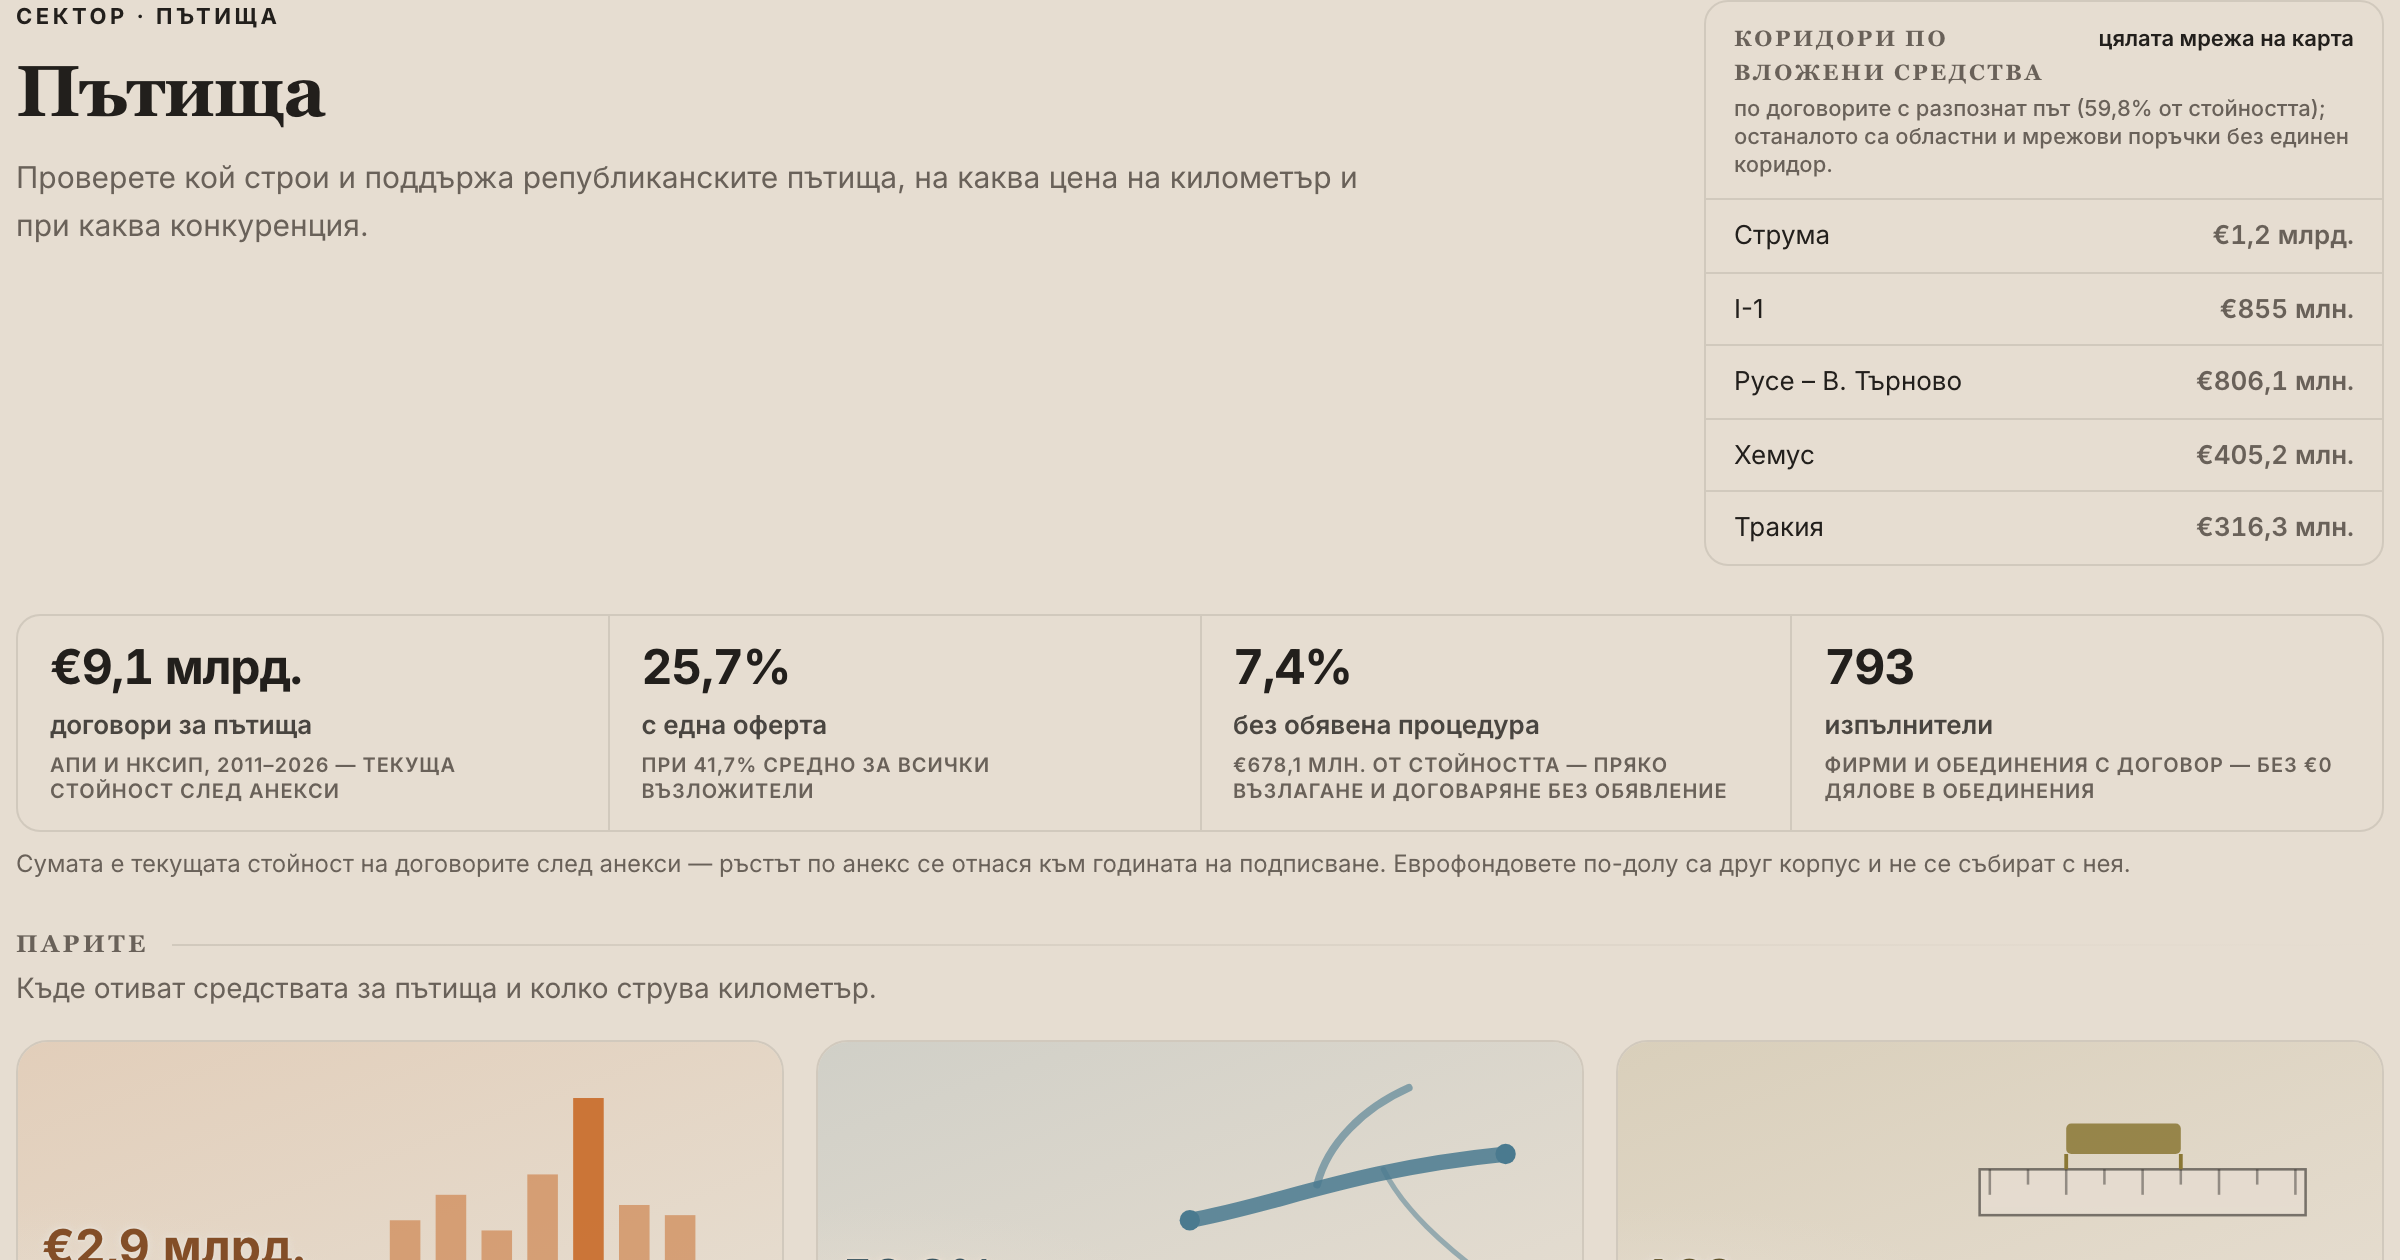
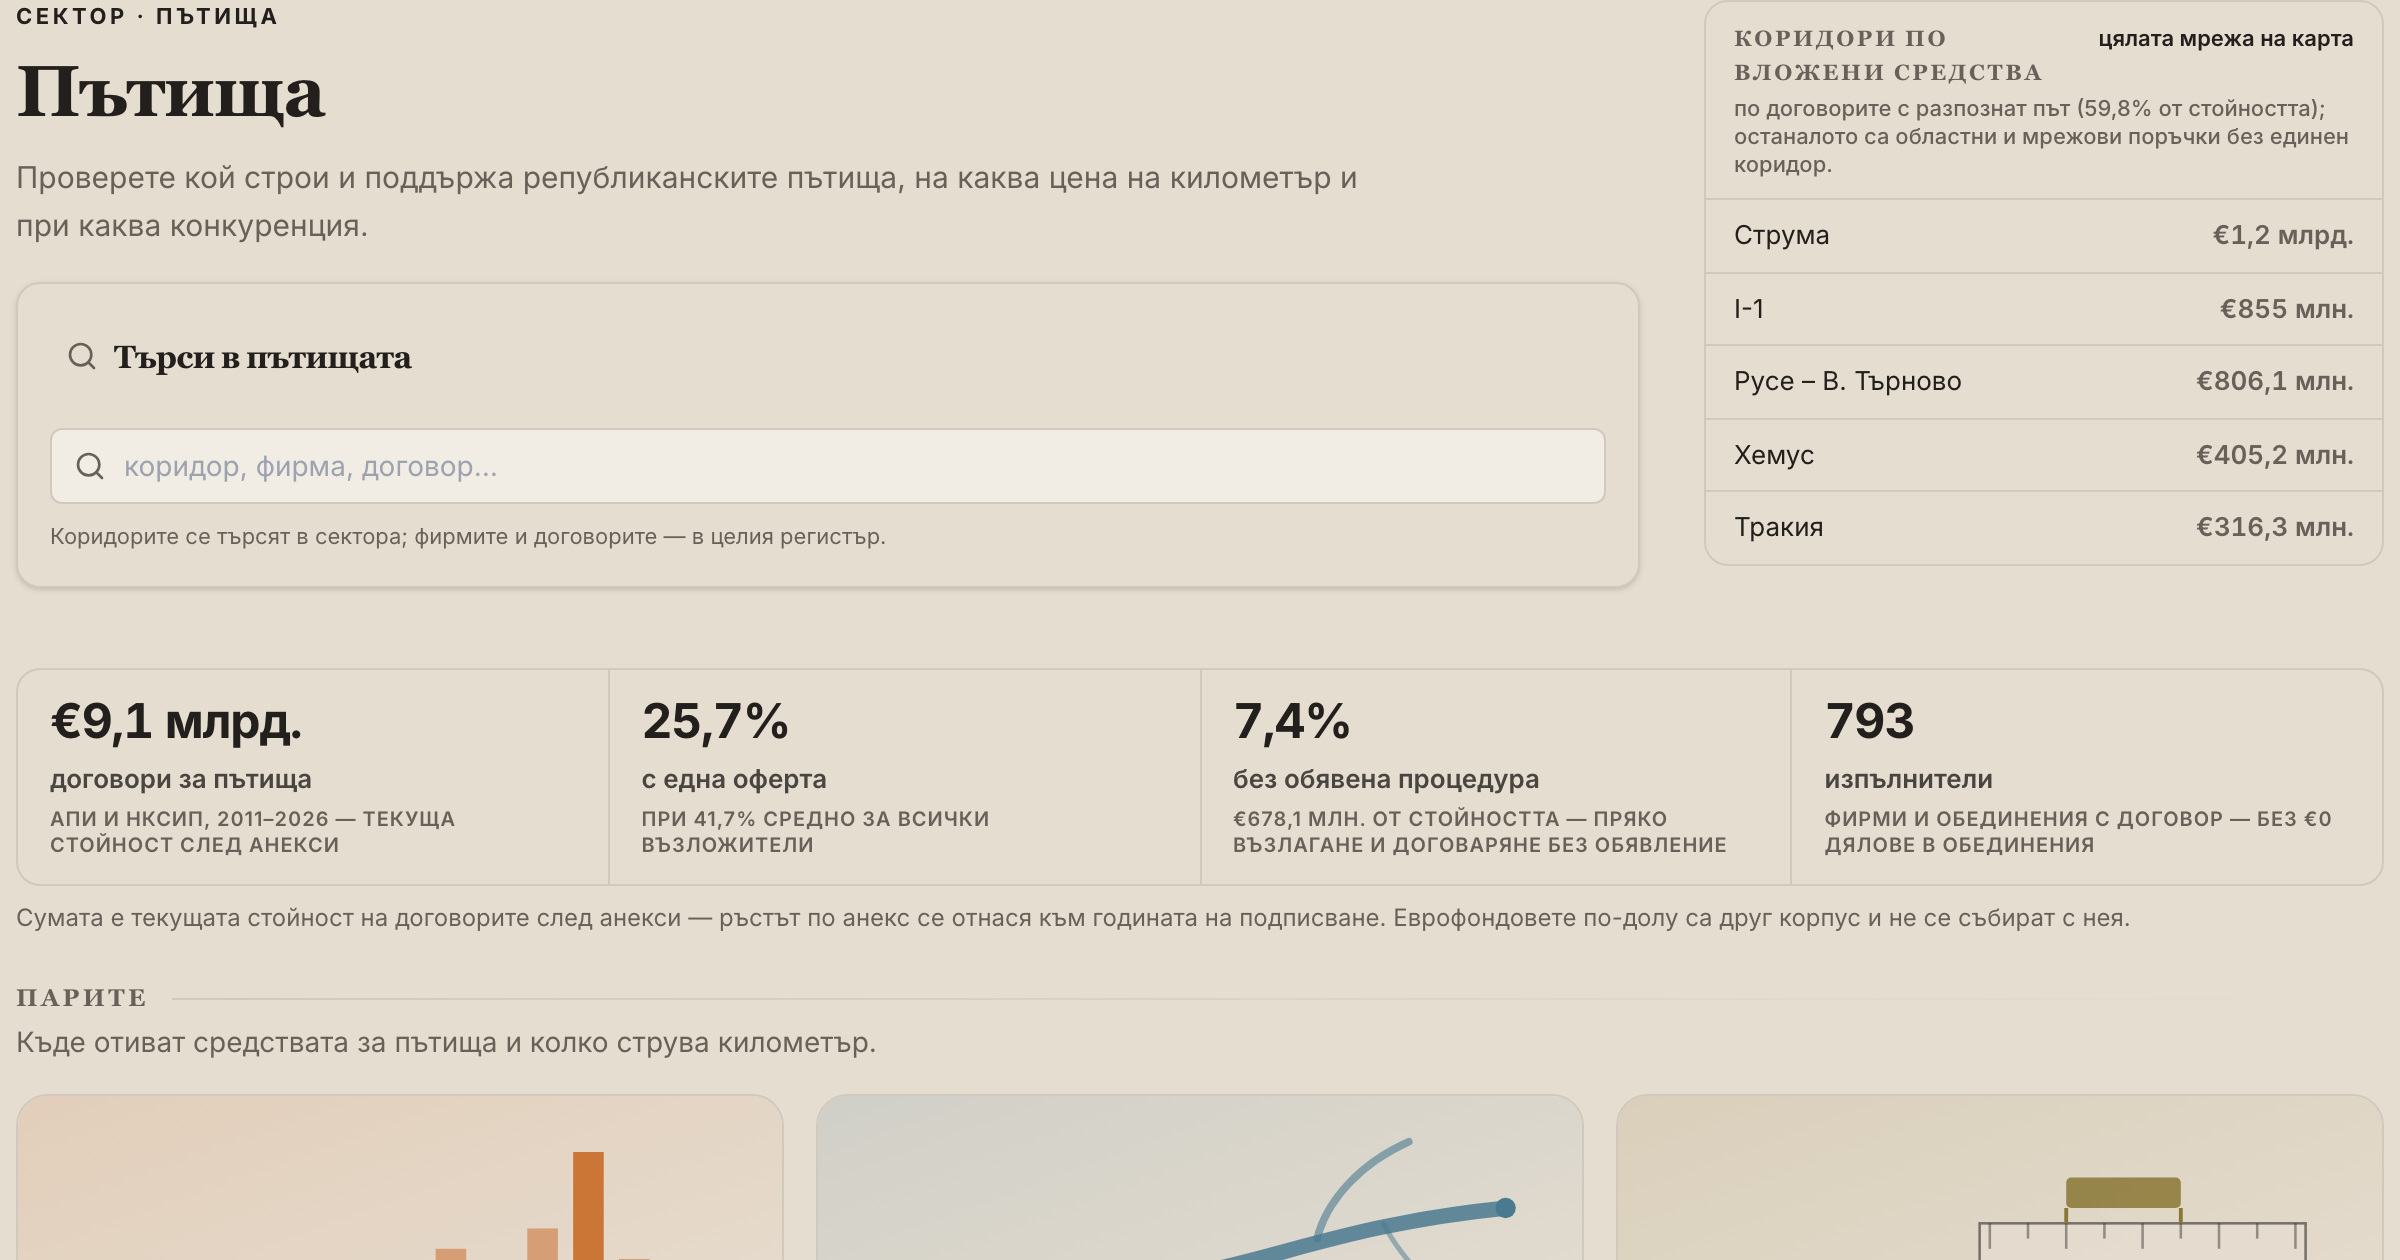
roads hub T6: the /sector/roads finder
A corridor index over the hub blob (each hit opens /network focused on it) and
contractor + contract groups on one memoised procurement-search request, both
labelled as whole-register because the route takes no sector. Head re-measured
at 479 px; og card re-shot.

Review fixes: FINDING-001 (ОПУ rows dropped — no page can show one by itself),
FINDING-002 (see-all goes to the set the group searched), FINDING-003 (budget
ceiling kept at 540).

diff --git a/src/screens/roads/roadsSearch.ts b/src/screens/roads/roadsSearch.ts
@@ -1,0 +1,109 @@
+// The /sector/roads finder's sources — pure data, no JSX. Plan T6.
+//
+// Three groups:
+//
+//   · corridors — a CLIENT index over the hub blob's corridor list
+//     (data/roads/derived/hub_stats.json). Not over the engine's MOTORWAYS table
+//     (unexported) and not over the ~3k-row contract corpus, which the hub must
+//     not download (dashboard-hub §1). This group IS sector-scoped.
+//   · contractors and contracts — the shared `procurement-search` route, ONE
+//     memoised request per needle for both groups (dashboard-hub §4). That route
+//     takes no sector argument, so both groups say in their labels that they
+//     search the whole register; a group that cannot be scoped is labelled,
+//     never presented as scoped (the culture finder's rule).
+
+import { Briefcase, MapPinned, Receipt } from "lucide-react";
+import type { SearchItem } from "@/ux/search/EntitySearchTile";
+import {
+  seeAllAbove,
+  type HubSearchSource,
+  type IndexSource,
+  type ServerSource,
+} from "@/ux/search/hubSearchSources";
+import { buildEntityIndex, type EntityIndex } from "@/lib/entitySearchIndex";
+import {
+  companyItems,
+  contractItems,
+  sharedProcurementSearch,
+} from "@/screens/components/search/procurementSearchSource";
+import type { RoadsHubStats } from "@/data/roads/hubStats";
+import { formatEurCompact } from "@/lib/currency";
+import { ROADS_PATHS } from "./roadsRegistry";
+
+const QUOTA = 5;
+
+/** Corridors from the blob; each opens the network page focused on it.
+ *
+ *  ⚠ NO ОПУ ROWS. The procurement page has no per-oblast filter, and its ОПУ
+ *  tile keeps only directorates with ≥3 bid-known contracts, top 12 by share —
+ *  so a region hit would land on a list that, for most of the 27, never names
+ *  it. A finder row must land somewhere that shows the subject. */
+export const roadsPlacesIndex = (
+  s: RoadsHubStats,
+  lang: string,
+  bg: boolean,
+): EntityIndex =>
+  buildEntityIndex(
+    s.corridorIndex,
+    (c) => ({
+      id: `corridor-${c.corridor}`,
+      label: c.corridor,
+      sub: `${bg ? "коридор" : "corridor"} · ${formatEurCompact(c.eur, lang)}`,
+      href: `${ROADS_PATHS.network}?corridor=${encodeURIComponent(c.corridor)}&pscope=all`,
+    }),
+    (c) => [c.corridor],
+  );
+
+export const roadsSearchSources = (
+  s: RoadsHubStats | null | undefined,
+  lang: string,
+  bg: boolean,
+): HubSearchSource[] => [
+  // The places group only exists once the blob has loaded — without it there is
+  // nothing true to index, and an empty index would answer „no such corridor".
+  ...(s
+    ? [
+        {
+          kind: "index",
+          id: "places",
+          label: { bg: "Пътни коридори", en: "Road corridors" },
+          icon: MapPinned,
+          limit: 6,
+          index: roadsPlacesIndex(s, lang, bg),
+        } as IndexSource,
+      ]
+    : []),
+  {
+    kind: "server",
+    id: "contractors",
+    label: {
+      bg: "Изпълнители — в целия регистър",
+      en: "Contractors — across the whole register",
+    },
+    icon: Briefcase,
+    limit: QUOTA,
+    fetch: async (q: string, signal: AbortSignal): Promise<SearchItem[]> =>
+      companyItems(await sharedProcurementSearch(q, signal), bg).slice(
+        0,
+        QUOTA,
+      ),
+  } as ServerSource,
+  {
+    kind: "server",
+    id: "contracts",
+    label: {
+      bg: "Договори — в целия регистър",
+      en: "Contracts — across the whole register",
+    },
+    icon: Receipt,
+    limit: QUOTA,
+    fetch: async (q: string, signal: AbortSignal): Promise<SearchItem[]> =>
+      contractItems(await sharedProcurementSearch(q, signal)).slice(0, QUOTA),
+    // The SAME set the group searched — the whole register. A ?sector=roads
+    // see-all would drop the non-road rows the preview just showed.
+    seeAll: seeAllAbove(
+      bg ? "Всички договори" : "All contracts",
+      (q) => `/procurement/contracts?pscope=all&q=${encodeURIComponent(q)}`,
+    ),
+  } as ServerSource,
+];

diff --git a/src/screens/roads/roadsSearch.test.ts b/src/screens/roads/roadsSearch.test.ts
@@ -1,0 +1,79 @@
+// The roads finder: the places group is built from the blob and lands on pages
+// that can serve it; the two server groups are labelled as whole-register (the
+// route takes no sector) and share ONE request per needle.
+
+import { describe, it, expect, vi, afterEach } from "vitest";
+import { readFileSync } from "node:fs";
+import path from "node:path";
+import { searchIndex } from "@/lib/entitySearchIndex";
+import { __resetProcurementSearchCache } from "@/screens/components/search/procurementSearchSource";
+import type { RoadsHubStats } from "@/data/roads/hubStats";
+import type { ServerSource } from "@/ux/search/hubSearchSources";
+import { roadsPlacesIndex, roadsSearchSources } from "./roadsSearch";
+
+const blob = JSON.parse(
+  readFileSync(
+    path.resolve(process.cwd(), "data/roads/derived/hub_stats.json"),
+    "utf8",
+  ),
+) as RoadsHubStats;
+
+afterEach(() => {
+  vi.unstubAllGlobals();
+  __resetProcurementSearchCache();
+});
+
+describe("roads finder", () => {
+  it("finds a corridor and links it to the focused network page", () => {
+    const hits = searchIndex(roadsPlacesIndex(blob, "bg", true), "хемус");
+    const h = hits.find((x) => x.label === "Хемус");
+    expect(h).toBeTruthy();
+    expect(h!.href).toBe(
+      `/sector/roads/network?corridor=${encodeURIComponent("Хемус")}&pscope=all`,
+    );
+  });
+
+  it("offers no ОПУ rows — the procurement page cannot show one by itself", () => {
+    expect(searchIndex(roadsPlacesIndex(blob, "bg", true), "опу")).toHaveLength(
+      0,
+    );
+    expect(
+      searchIndex(roadsPlacesIndex(blob, "bg", true), "софия"),
+    ).toHaveLength(0);
+  });
+
+  it("sends see-all to the set the group searched (no ?sector)", () => {
+    const contracts = roadsSearchSources(blob, "bg", true).find(
+      (s) => s.id === "contracts",
+    ) as ServerSource;
+    const href = String(contracts.seeAll?.("магистрала")?.to ?? "");
+    expect(href).not.toContain("sector=");
+  });
+
+  it("omits the places group until the blob has loaded", () => {
+    const ids = roadsSearchSources(null, "bg", true).map((s) => s.id);
+    expect(ids).toEqual(["contractors", "contracts"]);
+  });
+
+  it("labels both server groups as whole-register", () => {
+    for (const s of roadsSearchSources(blob, "bg", true).filter(
+      (x) => x.kind === "server",
+    ))
+      expect(s.label.bg).toContain("в целия регистър");
+  });
+
+  it("issues ONE request for both server groups", async () => {
+    const fetch = vi.fn(async () => ({
+      ok: true,
+      status: 200,
+      json: async () => ({ companies: [], contracts: [] }),
+    }));
+    vi.stubGlobal("fetch", fetch);
+    const servers = roadsSearchSources(blob, "bg", true).filter(
+      (x): x is ServerSource => x.kind === "server",
+    );
+    const ac = new AbortController();
+    await Promise.all(servers.map((s) => s.fetch("магистрала", ac.signal)));
+    expect(fetch).toHaveBeenCalledTimes(1);
+  });
+});

diff --git a/src/screens/roads/RoadsHubScreen.tsx b/src/screens/roads/RoadsHubScreen.tsx
@@ -15,6 +15,8 @@ import { isBg } from "@/i18n";
 import { useTranslation } from "react-i18next";
 import { HubHead, TileHubGrid, type TileHubSection } from "@/ux/infographic";
 import { SectorBreadcrumb } from "@/screens/components/procurement/SectorBreadcrumb";
+import { HubSearch } from "@/ux/search/HubSearch";
+import { roadsSearchSources } from "./roadsSearch";
 import { useRoadsHubStats } from "@/data/roads/hubStats";
 import { ROADS_BANDS, ROADS_HUB_COPY } from "./roadsRegistry";
 import { ROADS_SCENES } from "./roadsScenes";
@@ -41,6 +43,12 @@ export const RoadsHubScreen: FC = () => {
   const kpis = useMemo(() => roadsHubKpis(stats, lang, bg), [stats, lang, bg]);
   const evidence = useMemo(
     () => roadsHubEvidence(stats, lang, bg),
+    [stats, lang, bg],
+  );
+  // HubSearch diffs `sources` by identity, so rebuild only when the blob or the
+  // language changes — never per render.
+  const sources = useMemo(
+    () => roadsSearchSources(stats, lang, bg),
     [stats, lang, bg],
   );
   const bandOwned = new Set<string>(ROADS_BAND_TILES);
@@ -81,6 +89,21 @@ export const RoadsHubScreen: FC = () => {
         kpisPending={isPending ? 4 : undefined}
         kpiNote={kpis.length || isPending ? roadsKpiNote(bg) : undefined}
         evidence={evidence}
+        search={
+          <HubSearch
+            idPrefix="roads-finder"
+            sources={sources}
+            title={{ bg: "Търси в пътищата", en: "Search roads" }}
+            placeholder={{
+              bg: "коридор, фирма, договор…",
+              en: "corridor, company, contract…",
+            }}
+            hint={{
+              bg: "Коридорите се търсят в сектора; фирмите и договорите — в целия регистър.",
+              en: "Corridors are searched in the sector; companies and contracts across the whole register.",
+            }}
+          />
+        }
       />
       <TileHubGrid className="mt-6" sections={sections} />
     </>

diff --git a/tests/ui.spec.ts b/tests/ui.spec.ts
@@ -742,10 +742,10 @@ const HUB_HEAD_BUDGETS: {
   // all is a bonus — it doubles as a bucket-freshness gate.
   // 483 with the band alone; 495 once the evidence aside landed.
   { path: "/culture", maxPx: 560, measured: 495, cells: 4 },
-  // The roads sector hub (docs/plans/roads-hub-v1.md): identity + deck + a 4-cell band + a
-  // note + a 5-row corridor aside, no scope control (the hub is whole-corpus) and — until T6
-  // — no search slot. Measured 465 at 1280 on 2026-10-12.
-  { path: "/sector/roads", maxPx: 540, measured: 465, cells: 4 },
+  // The roads sector hub (docs/plans/roads-hub-v1.md): identity + deck + search + a 4-cell
+  // band + a note + a 5-row corridor aside, no scope control (the hub is whole-corpus).
+  // Measured 465 at 1280 on 2026-10-12 before the finder; 479 with it.
+  { path: "/sector/roads", maxPx: 540, measured: 479, cells: 4 },
   // Identity + deck + a scope control + a 4-cell band + a note + an evidence aside, and no
   // search slot (the grid is nineteen tiles, which is a list a reader scans rather than
   // searches).

diff --git a/docs/plans/roads-hub-v1.md b/docs/plans/roads-hub-v1.md
@@ -519,6 +519,12 @@ appears only where the destination reads `?q` (`/procurement/contracts` does).
 
 Gate: `roadsSearch.test.ts`.
 
+**Done 2026-10-12.** `roadsSearch.ts`: a corridor index over the blob's `corridorIndex`, and
+contractor + contract groups on ONE memoised `procurement-search` request, both labelled „в целия
+регистър", with a see-all to the same whole-register set (no `?sector`). **ОПУ rows were dropped in
+review**: the procurement page has no per-oblast filter and its ОПУ tile shows only the top 12 with
+≥3 bid-known contracts, so a region hit would land on a list that never names it. Head 465 → 479 px.
+
 ### T7: page layer (B1, B4, C5–C7)
 
 **Prerender (B1).**
